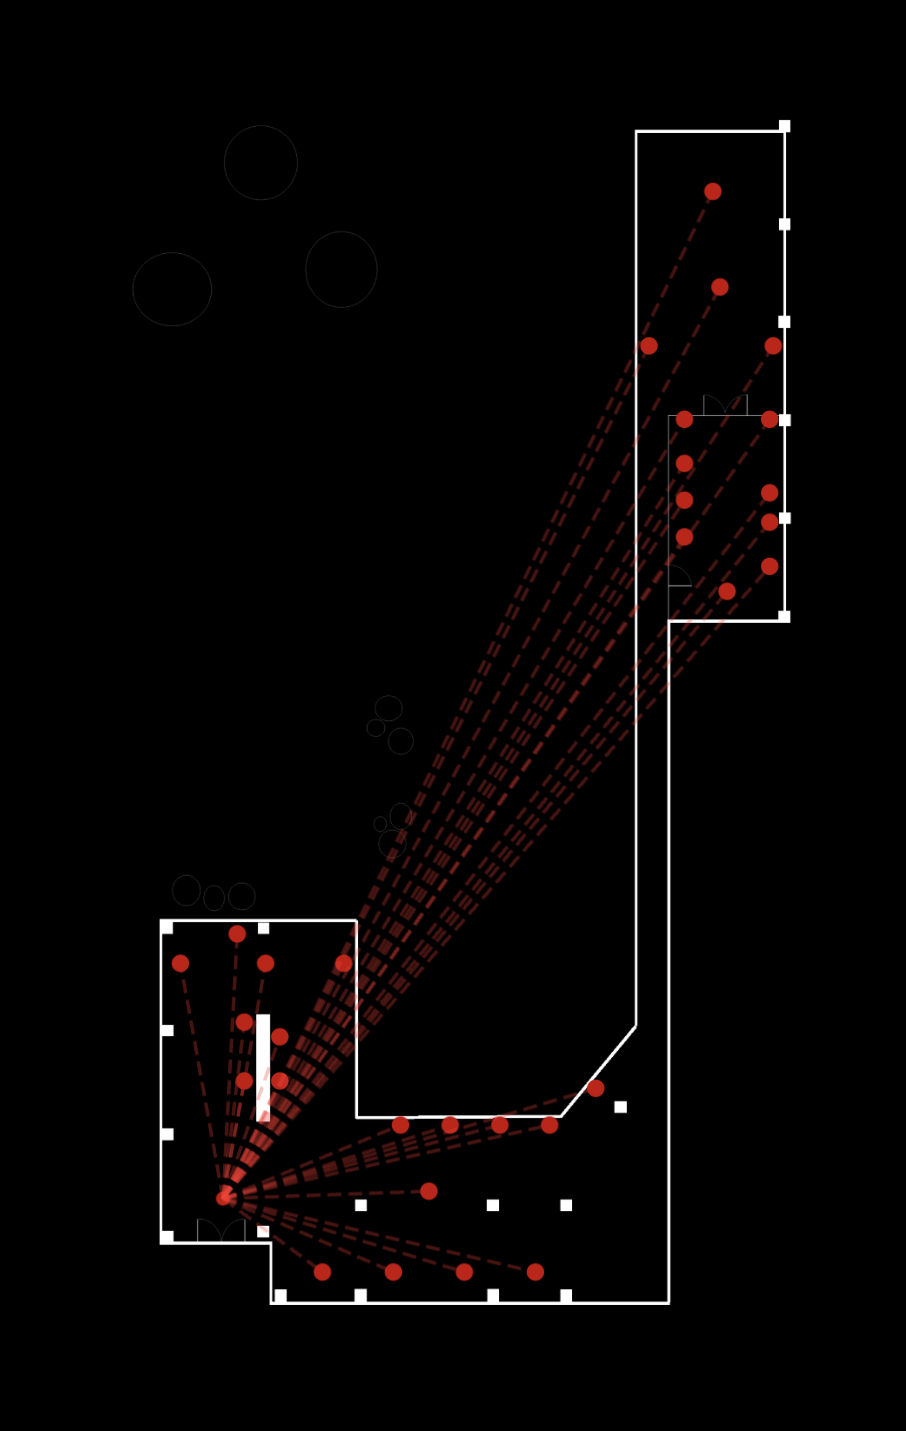
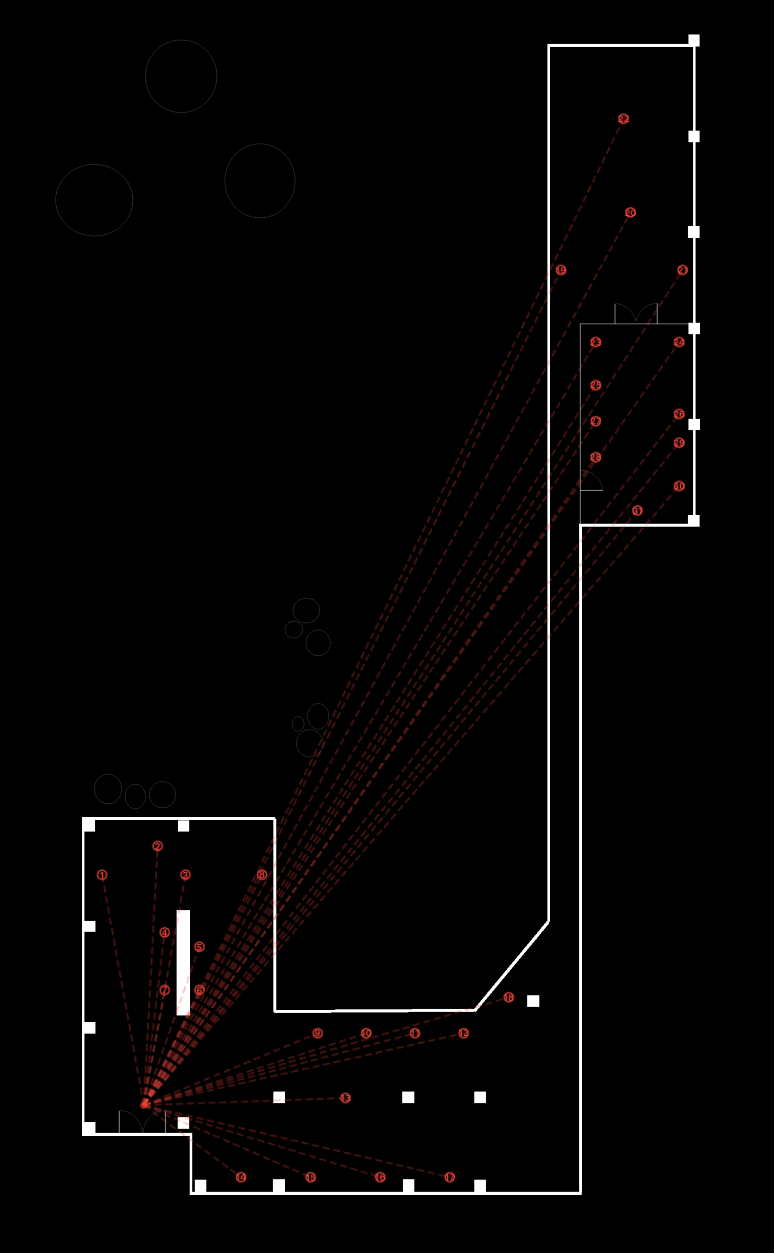
safari

diff --git a/src/main.js b/src/main.js
@@ -855,10 +855,11 @@ function renderMap() {
   // Render entrance marker
   renderEntranceMarker(overlayWidth, overlayHeight);
   
-  // Render student markers and paths
-  getStudents().forEach(student => {
+  // Render student markers and paths with numbers
+  const students = getStudents();
+  students.forEach((student, index) => {
     renderStudentPath(student, overlayWidth, overlayHeight);
-    renderStudentMarker(student, overlayWidth, overlayHeight);
+    renderStudentMarker(student, overlayWidth, overlayHeight, index + 1);
   });
   
   // Force transforms for non-Safari
@@ -919,7 +920,7 @@ function renderStudentPath(student, width, height) {
   mapOverlay.appendChild(path);
 }
 
-function renderStudentMarker(student, width, height) {
+function renderStudentMarker(student, width, height, number) {
   const pxX = student.x * width;
   const pxY = student.y * height;
   const isActive = activeStudentId === student.id;
@@ -940,6 +941,20 @@ function renderStudentMarker(student, width, height) {
   });
   
   mapOverlay.appendChild(circle);
+  
+  // Add number text inside the circle
+  const text = document.createElementNS("http://www.w3.org/2000/svg", "text");
+  text.setAttribute("class", "project-dot-number");
+  text.setAttribute("x", pxX);
+  text.setAttribute("y", pxY);
+  text.textContent = number;
+  text.style.pointerEvents = "none";
+  // Adjust font size based on device (smaller sizes)
+  const fontSize = device === 'mobile' ? 5 : device === 'tablet' ? 6 : 7;
+  text.setAttribute("font-size", fontSize);
+  // Rotate text 90 degrees to the right (clockwise)
+  text.setAttribute("transform", `rotate(90 ${pxX} ${pxY})`);
+  mapOverlay.appendChild(text);
 }
 
 // ============================================================================
@@ -955,7 +970,8 @@ function renderLegend() {
   
   studentsList.innerHTML = "";
   
-  getStudents().forEach(student => {
+  const students = getStudents();
+  students.forEach((student, index) => {
     const item = document.createElement("div");
     item.className = `legend-item ${activeStudentId === student.id ? "active" : ""}`;
     item.setAttribute("data-student-id", student.id);
@@ -967,8 +983,11 @@ function renderLegend() {
       projectText = student.participants.map(p => p.name).join(", ");
     }
     
+    const number = index + 1;
     item.innerHTML = `
-      <span class="legend-marker student-marker"></span>
+      <span class="legend-marker student-marker">
+        <span class="legend-number">${number}</span>
+      </span>
       <span class="legend-text">
         <span class="student-name">${escapeHtml(student.name)}</span>
         <span class="student-project">${projectText}</span>

diff --git a/src/styles.css b/src/styles.css
@@ -229,12 +229,23 @@ body {
 
 /* SVG Elements */
 .project-dot {
-  fill: var(--color-accent-dark);
-  stroke: none;
+  fill: none;
+  stroke: var(--color-accent);
+  stroke-width: 1.5;
   cursor: pointer;
   pointer-events: all;
   transition: transform 0.3s ease;
   animation: dotPulseOpacity 2s ease-in-out infinite;
+}
+
+.project-dot-number {
+  fill: var(--color-accent);
+  font-size: 10px;
+  font-weight: 600;
+  text-anchor: middle;
+  dominant-baseline: central;
+  pointer-events: none;
+  font-family: system-ui, -apple-system, sans-serif;
 }
 
 .project-dot:hover {
@@ -246,8 +257,12 @@ body {
   animation: none;
   opacity: 1;
   stroke: var(--color-fg);
-  stroke-width: 0.8;
+  stroke-width: 1.2;
   filter: drop-shadow(0 0 3px rgba(255, 255, 255, 0.8));
+}
+
+.project-dot.active + .project-dot-number {
+  fill: var(--color-fg);
 }
 
 @keyframes dotPulseOpacity {
@@ -440,19 +455,34 @@ body {
 }
 
 .legend-marker {
-  width: 10px;
-  height: 10px;
+  width: 20px;
+  height: 20px;
   border-radius: 50%;
   margin-right: 0.5rem;
   flex-shrink: 0;
+  display: flex;
+  align-items: center;
+  justify-content: center;
+  border: 1.5px solid var(--color-accent);
+  background: transparent;
+  position: relative;
 }
 
 .entrance-marker {
   background: var(--color-accent);
+  border: none;
 }
 
 .student-marker {
-  background: var(--color-accent);
+  background: transparent;
+  border: 1.5px solid var(--color-accent);
+}
+
+.legend-number {
+  color: var(--color-accent);
+  font-size: 10px;
+  font-weight: 600;
+  line-height: 1;
 }
 
 .legend-text {
